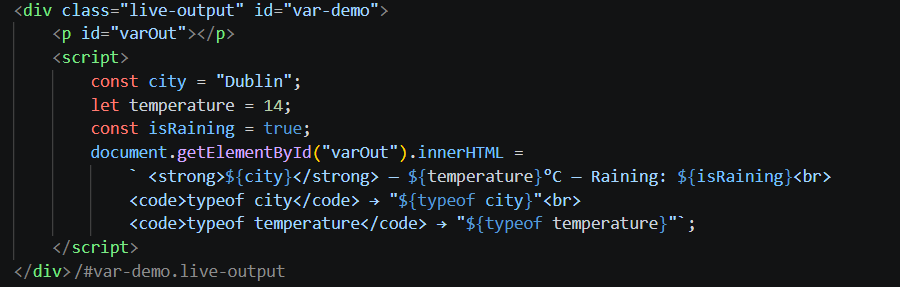
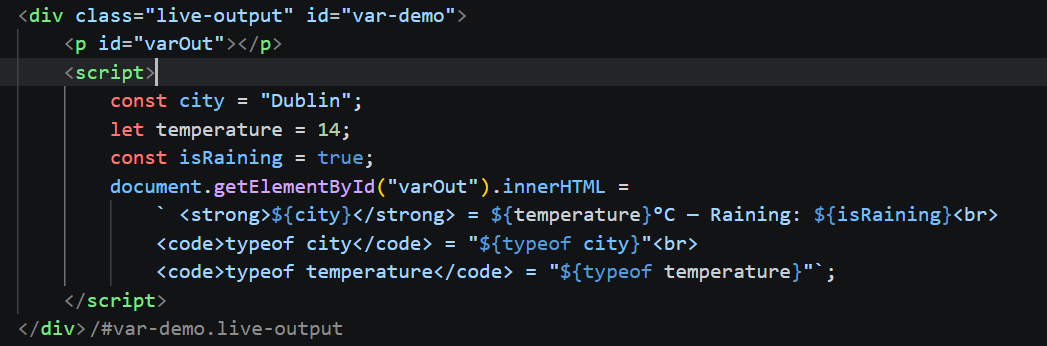
minor fixes

Changed region(s): [[0.0, 0.0, 0.9644, 0.8084], [0.0, 0.9199, 0.3422, 0.9756], [0.0622, 0.8362, 0.1556, 0.892]]

diff --git a/JS.html b/JS.html
@@ -58,9 +58,9 @@
                                     let temperature = 14;
                                     const isRaining = true;
                                     document.getElementById("varOut").innerHTML =
-                                        ` <strong>${city}</strong> — ${temperature}°C — Raining: ${isRaining}<br>
-                                        <code>typeof city</code> → "${typeof city}"<br>
-                                        <code>typeof temperature</code> → "${typeof temperature}"`;
+                                        ` <strong>${city}</strong> = ${temperature}°C — Raining: ${isRaining}<br>
+                                        <code>typeof city</code> = "${typeof city}"<br>
+                                        <code>typeof temperature</code> = "${typeof temperature}"`;
                                 </script>
                             </div>
                         </div>